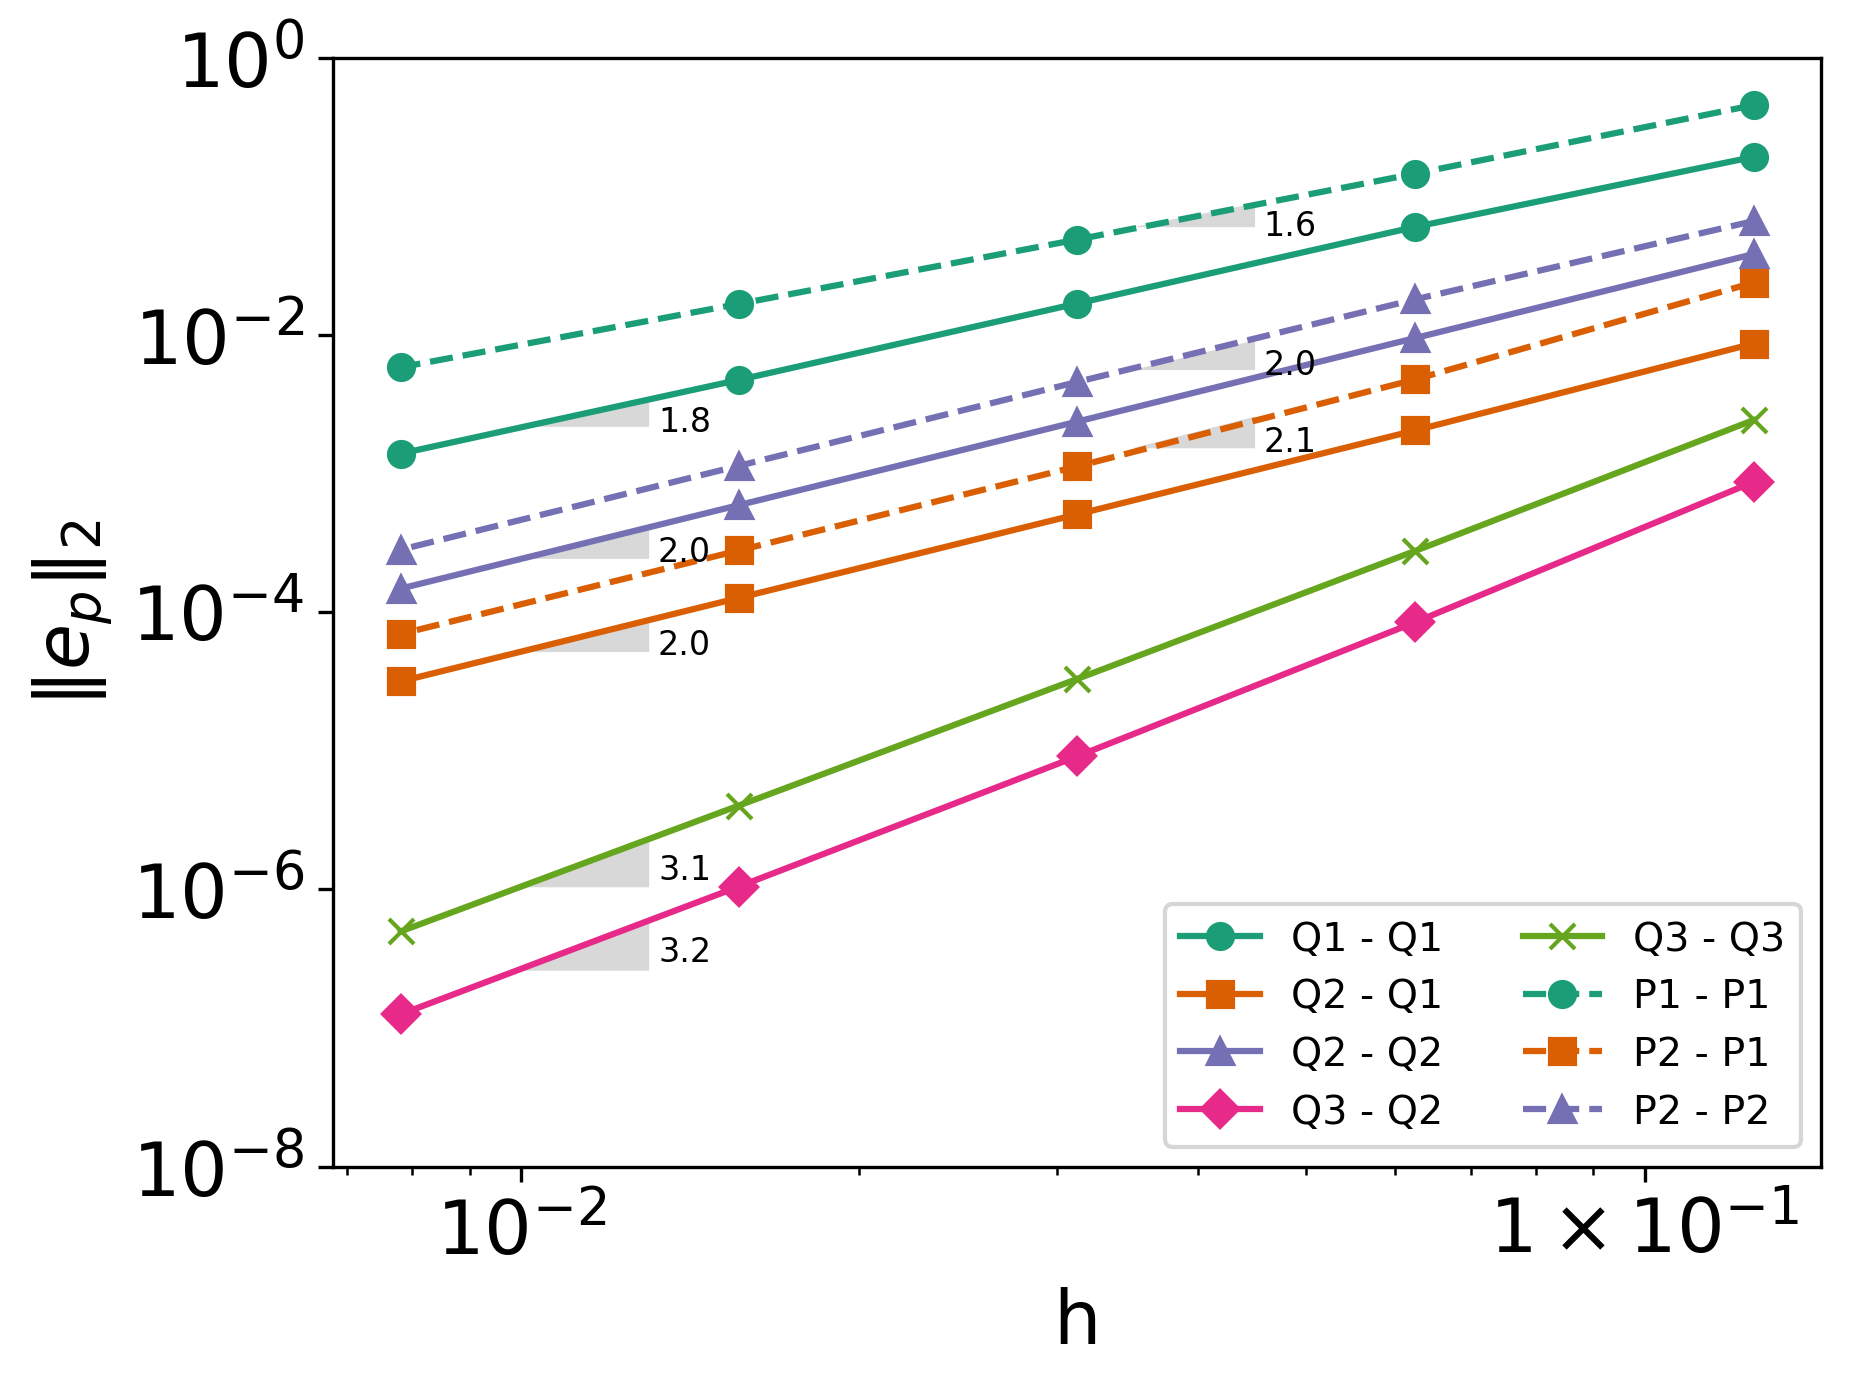
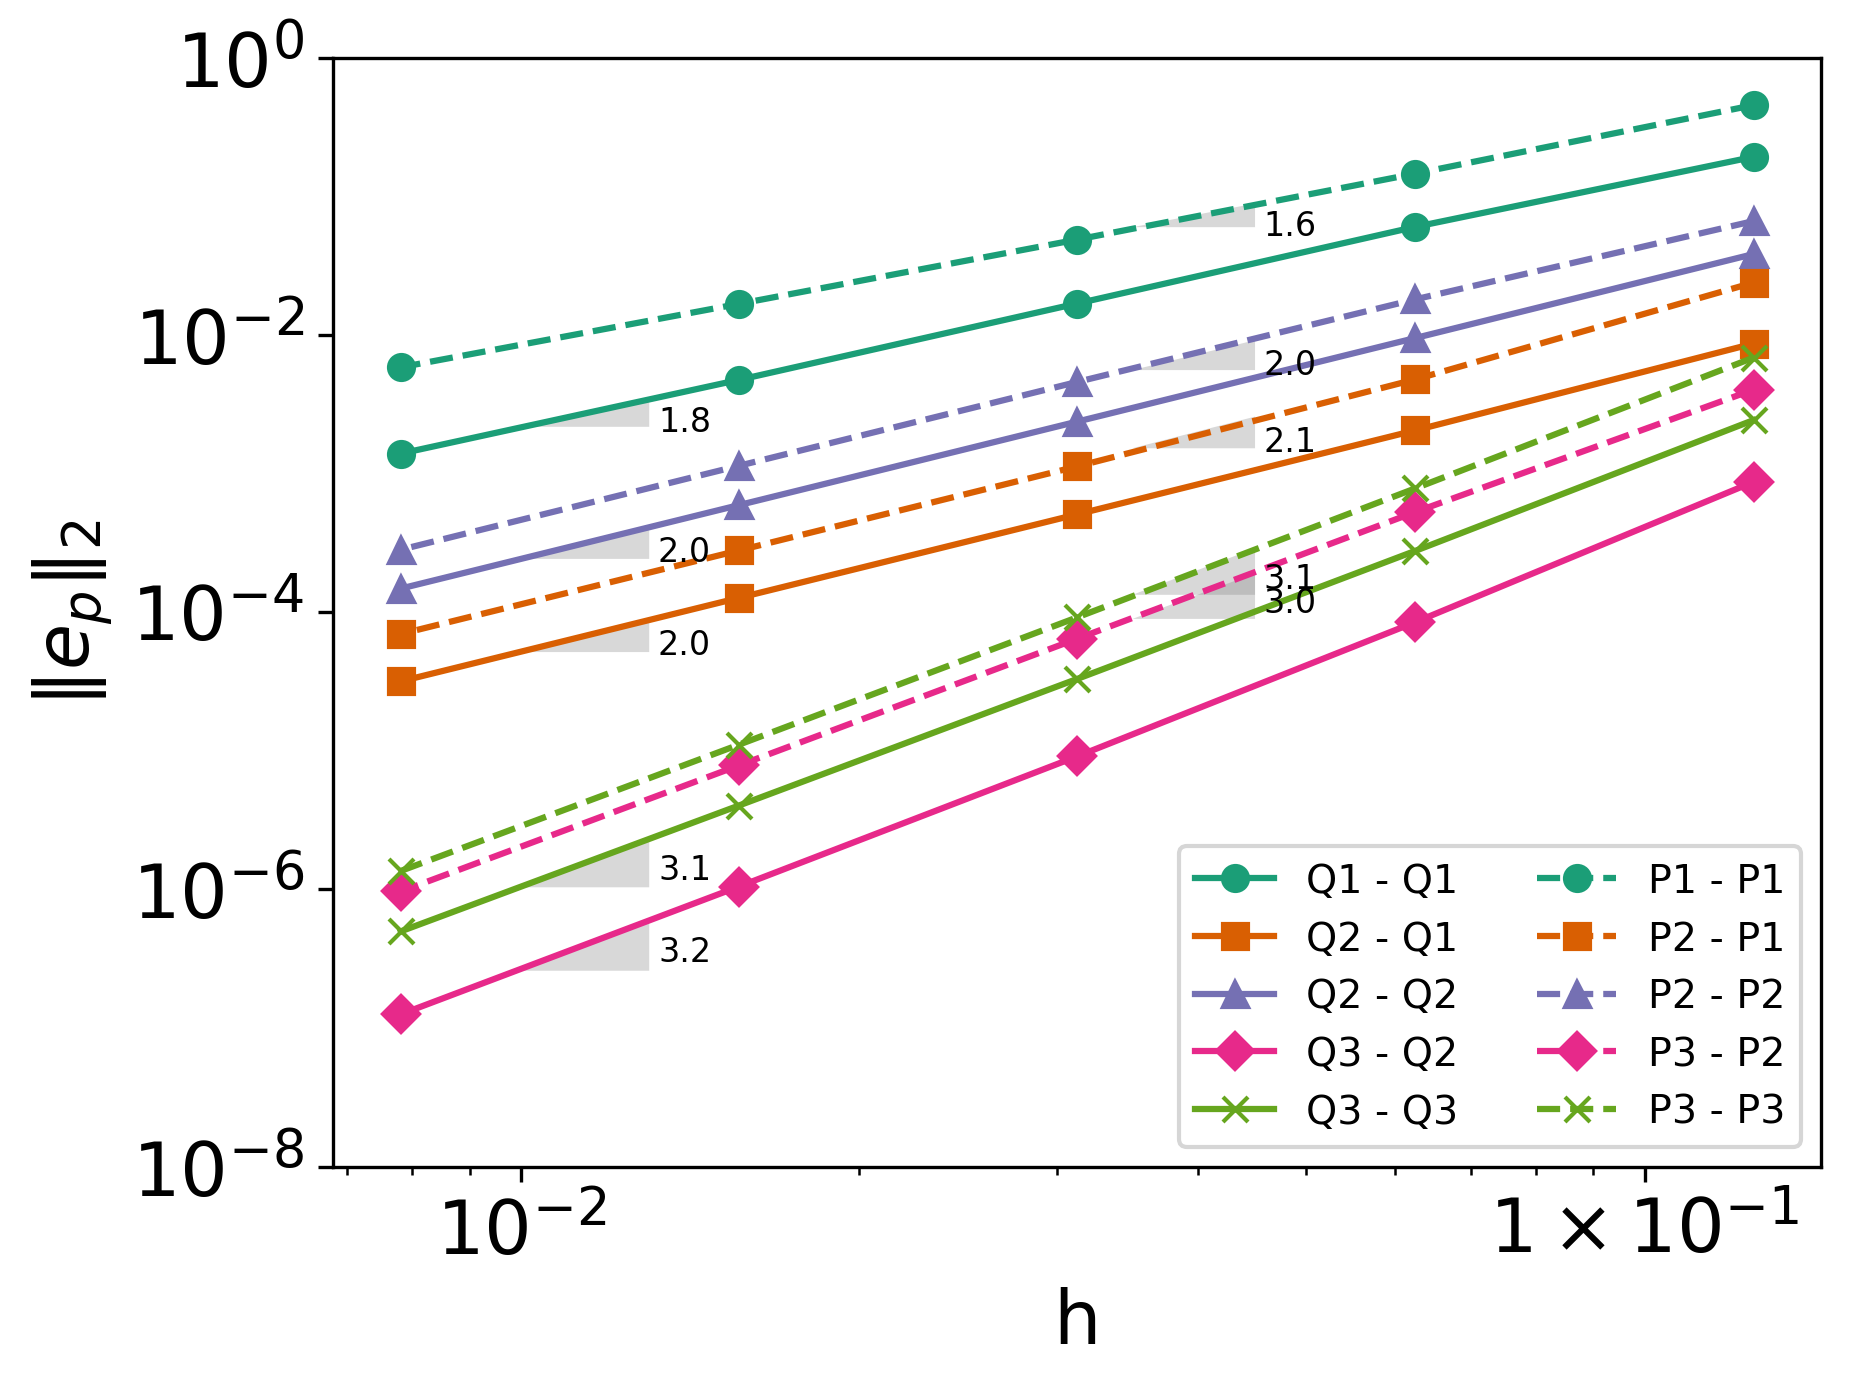
Deploying to gh-pages-v3 from @ chaos-polymtl/lethe@214e7267f9378ff5cd41584e15fea803147fc25b 🚀

diff --git a/documentation/examples/incompressible-flow/2d-mms/2d-mms.html b/documentation/examples/incompressible-flow/2d-mms/2d-mms.html
@@ -449,7 +449,7 @@
 <section id="features">
 <h2>Features<a class="headerlink" href="#features" title="Link to this heading">#</a></h2>
 <ul class="simple">
-<li><p>Solvers: <code class="docutils literal notranslate"><span class="pre">lethe-fluid</span></code> with the velocity and pressure polynomial approximations <span class="math notranslate nohighlight">\(\in \{Q_1, Q_2, Q_3\}\)</span> and  <span class="math notranslate nohighlight">\(\in \{P_1, P_2\}\)</span></p></li>
+<li><p>Solvers: <code class="docutils literal notranslate"><span class="pre">lethe-fluid</span></code> with the velocity and pressure polynomial approximations <span class="math notranslate nohighlight">\(\in \{Q_1, Q_2, Q_3\}\)</span> and  <span class="math notranslate nohighlight">\(\in \{P_1, P_2, P_3\}\)</span></p></li>
 <li><p>Steady-state problem</p></li>
 <li><p>Introduction of a source term in the NS equations</p></li>
 <li><p>Output of the <span class="math notranslate nohighlight">\(L^2\)</span> norm of the <a class="reference external" href="https://chaos-polymtl.github.io/lethe/documentation/parameters/cfd/analytical_solution.html#analytical-solution">error relative to the chosen manufactured solution</a></p></li>
@@ -631,7 +631,7 @@ h_{simplex} &amp;= \frac{l_\Omega}{\sqrt{(n_{cells}/8)}}*0.5\end{split}\]</div>
 <p>The following figure shows the variation of  <span class="math notranslate nohighlight">\(|e_p|_2\)</span> with <span class="math notranslate nohighlight">\(h\)</span></p>
 <a class="reference internal image-reference" href="../../../_images/order_of_convergence_pressure.png" id="pressure-convergence"><img alt=":math:`|e_{p}|_2`" class="align-center" id="pressure-convergence" src="../../../_images/order_of_convergence_pressure.png" style="width: 600px;" /></a>
 <p>In both plots, the continuous lines correspond to the quadrilateral mesh, while the dashed lines represent the simplex mesh. It can be seen that the velocity converges to the order <span class="math notranslate nohighlight">\((k_v+1)\)</span> for a velocity shape function of degree <span class="math notranslate nohighlight">\(k_v\)</span>.`</p>
-<p>As for the pressure, it converges at the second-order for the shape functions pairs <span class="math notranslate nohighlight">\(\in \{Q_1-Q_1, Q_2-Q_1, Q_2-Q_2\}\)</span> and <span class="math notranslate nohighlight">\(\in \{P_1-P_1, P_2-P_1, P_2-P_2\}\)</span>, and to the third-order for combinations <span class="math notranslate nohighlight">\(\in \{Q_3-Q_2, Q_3-Q_3\}\)</span>.</p>
+<p>As for the pressure, it converges at order <span class="math notranslate nohighlight">\(\approx 1.6\)</span>  for the shape functions pairs <span class="math notranslate nohighlight">\(\in \{Q_1-Q_1, P_1-P_1\}\)</span>, at second order for the shape functions pairs <span class="math notranslate nohighlight">\(\in \{Q_2-Q_1, Q_2-Q_2, P_1-P_1, P_2-P_1, P_2-P_2\}\)</span>, and to the third-order for combinations <span class="math notranslate nohighlight">\(\in \{Q_3-Q_2, Q_3-Q_3, P_3-P_2, P_3-P_3\}\)</span>.</p>
 <p>Finally, for the same degree of the velocity and pressure approximations and the same mesh resolution, the error is smaller for a quadrilateral mesh, for both the pressure and velocity fields.</p>
 </section>
 <section id="possibilities-for-extension">